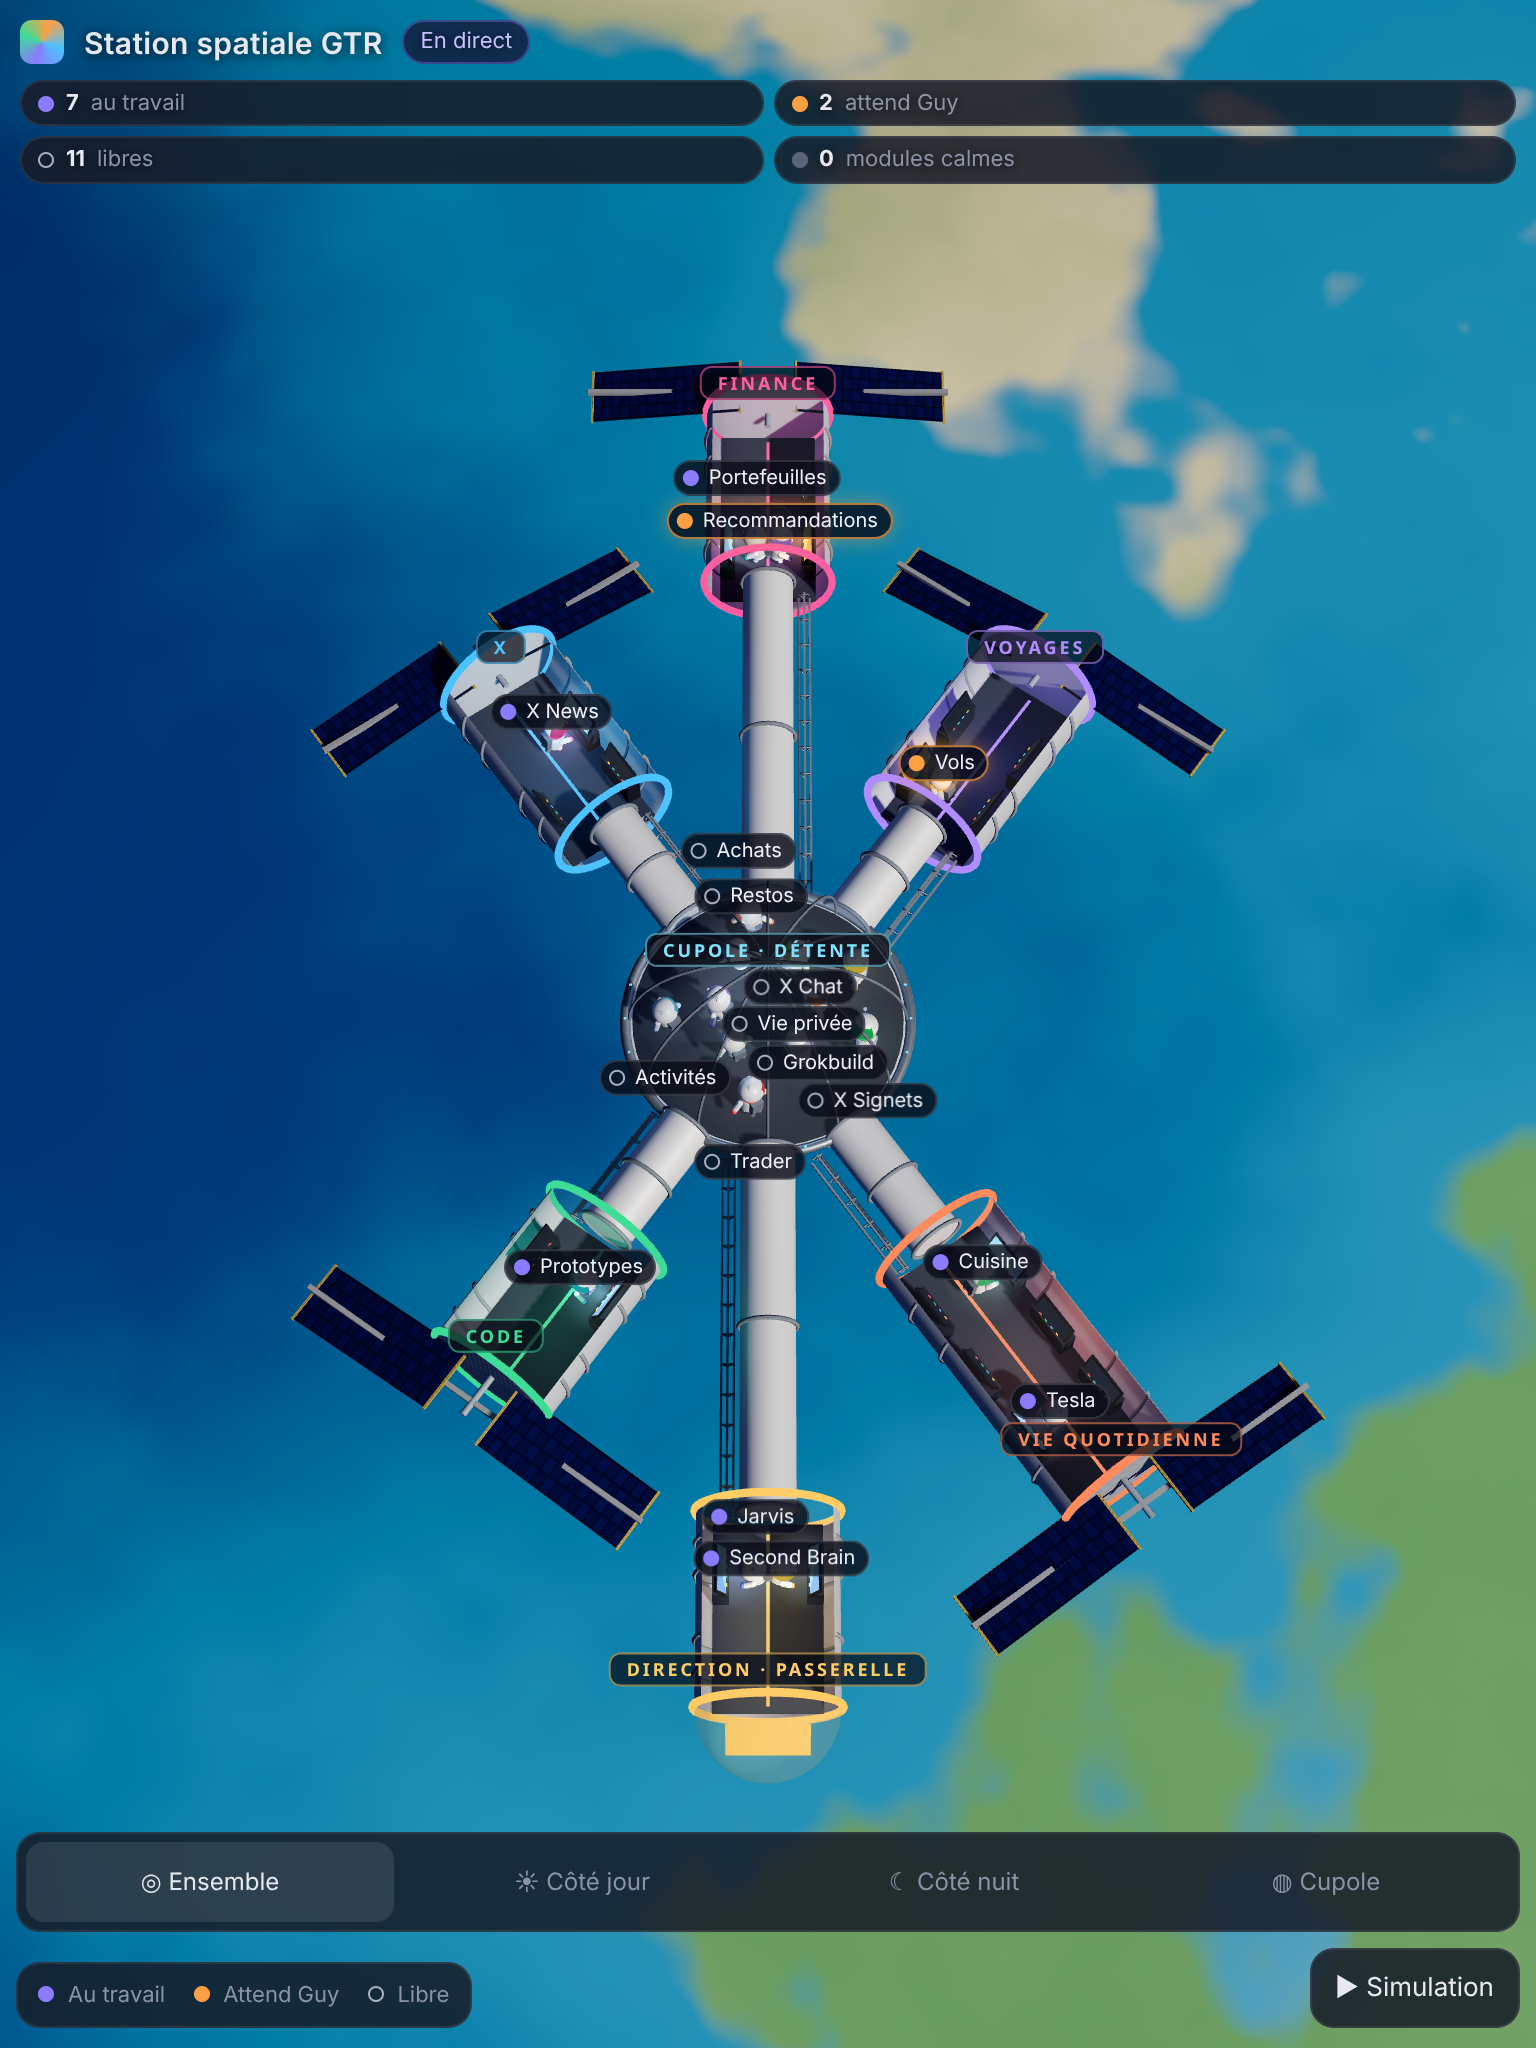
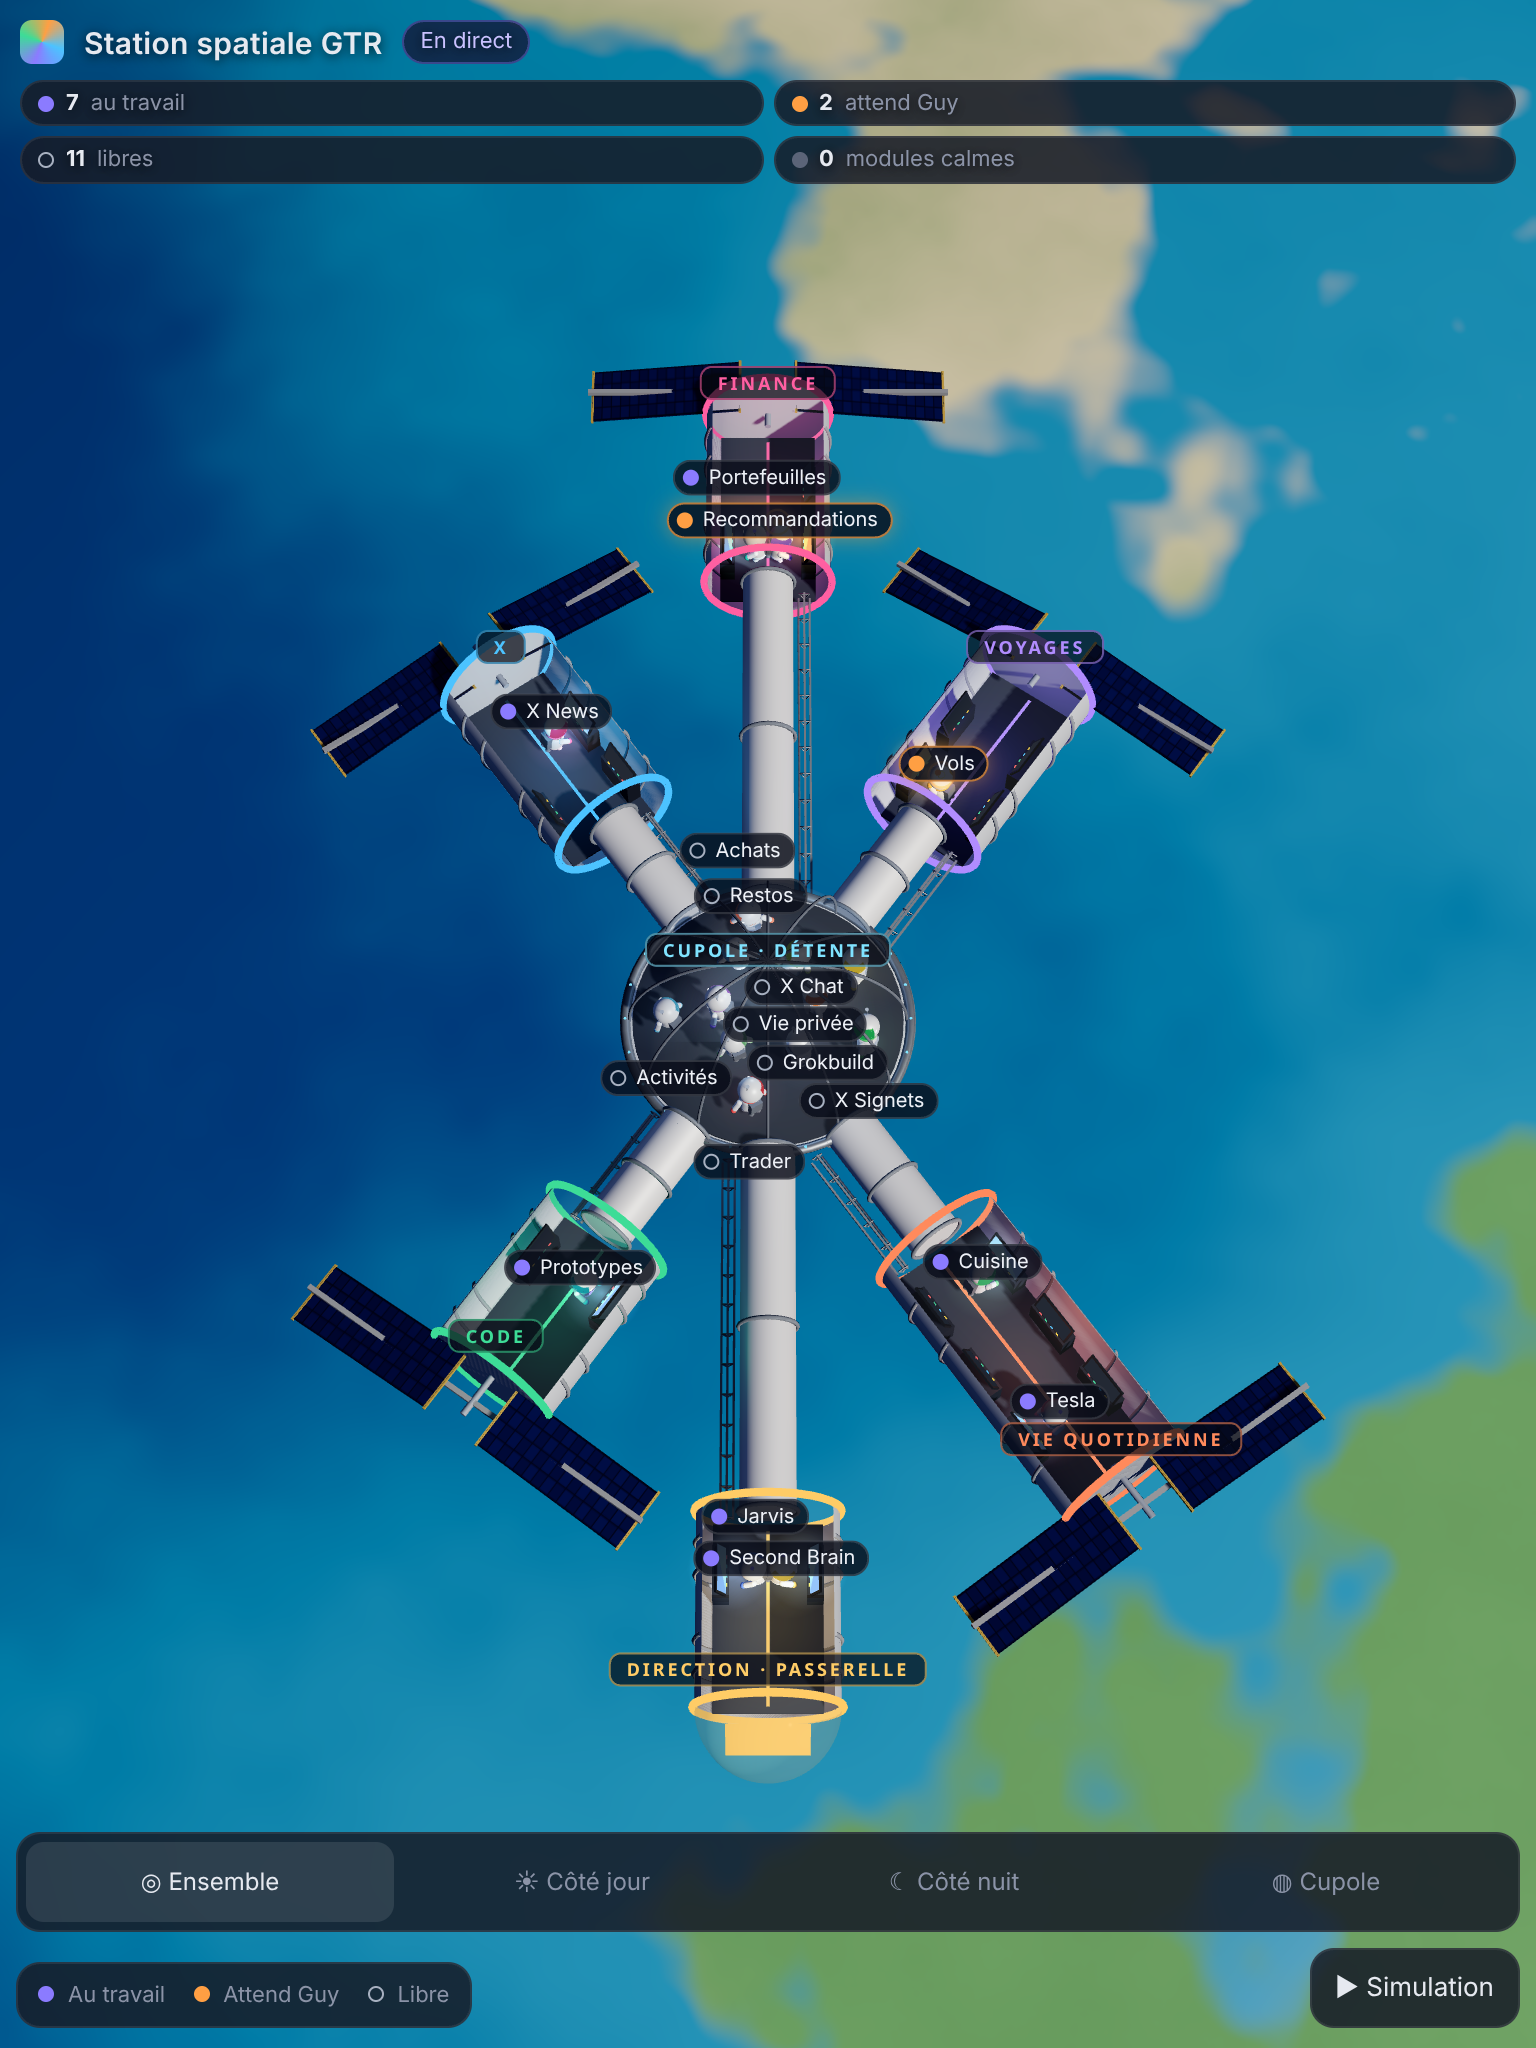
Côté nuit plus lumineux : éclairage d'appoint, modules et consoles plus vifs, lumières des villes adoucies

diff --git a/app.js b/app.js
@@ -109,8 +109,8 @@ const matTerre = new THREE.ShaderMaterial({
       float spec=pow(max(dot(reflect(-L,N),V),0.),30.)*(1.-terre)*(1.-nu)*0.55;
       vec3 jour=col*(0.05+1.05*max(d,0.))+vec3(1.,.95,.85)*spec*max(d,0.);
       jour=mix(jour,vec3(1.)*(0.06+0.95*max(d,0.)),nu*0.88);
-      float villes=terre*(1.-glace)*smoothstep(0.78,0.95,bruit(p*900.))*smoothstep(0.5,0.66,fbm(p*9.+7.));
-      villes+=terre*(1.-glace)*0.12*smoothstep(0.55,0.7,fbm(p*30.+3.))*smoothstep(0.5,0.66,fbm(p*9.+7.));
+      float zone=smoothstep(0.5,0.66,fbm(p*9.+7.));
+      float villes=terre*(1.-glace)*zone*(0.55*smoothstep(0.58,0.78,fbm(p*140.+1.))+0.18*smoothstep(0.52,0.7,fbm(p*35.+3.)));
       vec3 nuit=vec3(1.,.72,.38)*villes*1.3*(1.-nu*0.85)+col*0.015;
       gl_FragColor=vec4(mix(nuit,jour,t),1.);
       #include <tonemapping_fragment>
@@ -488,7 +488,7 @@ const VUES = {
 };
 const LUM = {
   jour: { dir: [0.55, 0.62, 0.55], coul: '#fff4e0', i: 3.0, hemi: 0.55, int: 4, expo: 1.1 },
-  nuit: { dir: [-0.45, -0.3, -0.85], coul: '#8fa2ff', i: 0.9, hemi: 0.38, int: 10, expo: 1.2 },
+  nuit: { dir: [-0.45, -0.3, -0.85], coul: '#9fb0ff', i: 1.9, hemi: 1.2, int: 18, expo: 1.35 },
 };
 let vueCourante = 'ensemble', lumCourante = 'jour';
 const anim = { t: 1, de: null, vers: null, cDe: null, cVers: null };
@@ -498,6 +498,9 @@ function appliquerLumiere(nom) {
   soleil.color.set(l.coul); soleil.intensity = l.i; hemi.intensity = l.hemi; renderer.toneMappingExposure = l.expo;
   soleil.position.copy(dirSoleil).multiplyScalar(60); soleil.target.position.set(0, 0, 0);
   for (const li of lumieresInt) li.intensity = l.int;
+  hemi.color.set(nom === 'nuit' ? '#b8c6ff' : '#9fb7ff'); hemi.groundColor.set(nom === 'nuit' ? '#3a4f8a' : '#1b4f8f');
+  for (const p of persos.values()) p.aura.material.color.set(p.coul);
+  if (plan) for (const po of plan.postes.values()) po.lueur.material.opacity = nom === 'nuit' ? 0.85 : 0.55;
   document.body.dataset.orbite = nom;
 }
 function marges() {
@@ -510,7 +513,7 @@ function cadrage(nom) {
   camera.aspect = w / h;
   camera.clearViewOffset();
   camera.updateProjectionMatrix();
-  const elev = (v.elev + (plan && plan.forme === 'portrait' && !v.cupole ? 14 : 0)) * deg, az = v.az * deg;
+  const elev = (v.elev + (plan && plan.forme === 'portrait' && !v.cupole ? 14 : 0)) * deg, az = v.az * deg * (plan && plan.forme === 'portrait' ? 0.25 : 1);
   const dir = new THREE.Vector3(Math.sin(az) * Math.cos(elev), Math.sin(elev), Math.cos(az) * Math.cos(elev));
   const cible = v.cupole ? new THREE.Vector3(0, 1.2, 0) : new THREE.Vector3(0, -0.2, 0);
   const lx = 1 - (2 * m.c) / w;
